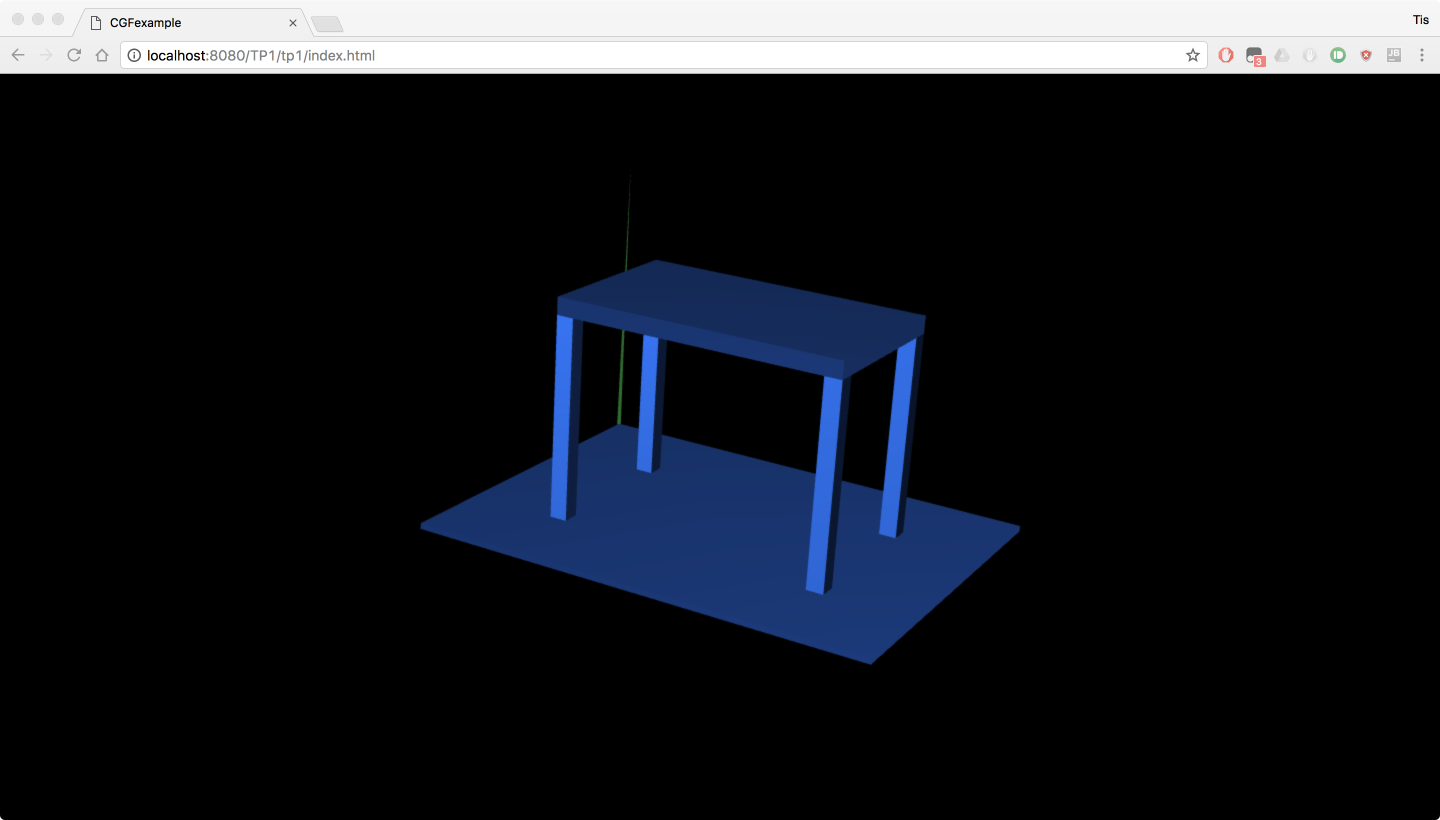
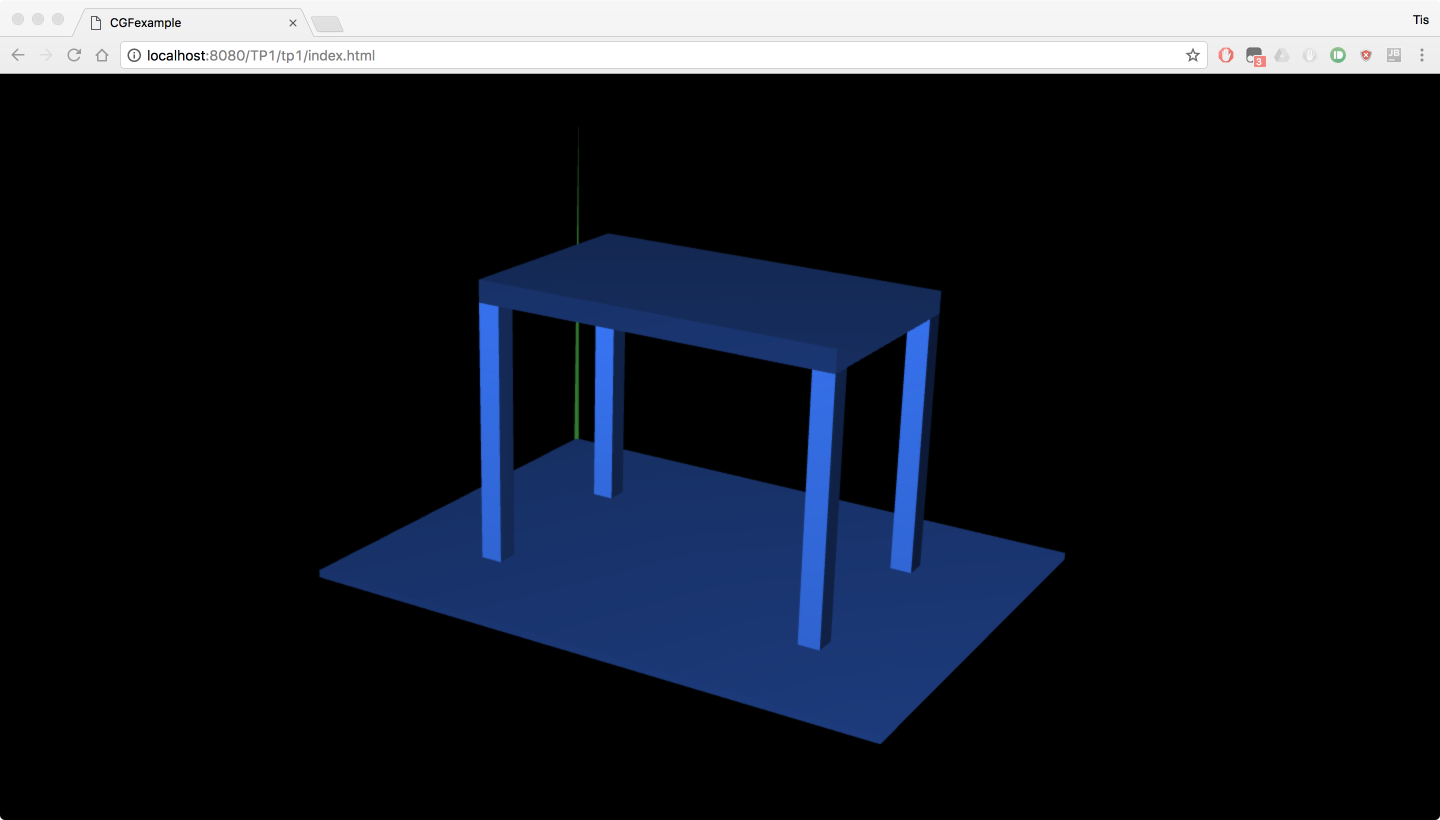
TP1 - Corrigida e Completa

Changed region(s): [[0.2188, 0.2744, 0.75, 0.9146]]

diff --git a/TP1/Resolução Problemas Propostos/CGFCode-tp1-5.4/MyTable.js b/TP1/Resolução Problemas Propostos/CGFCode-tp1-5.4/MyTable.js
@@ -17,35 +17,35 @@ MyTable.prototype.display = function () {
 
 	/*tampo*/
 	this.scene.pushMatrix();
-	this.scene.translate(0,3.5,0);
+	this.scene.translate(0,3.65,0);
 	this.scene.scale(5,0.3,3);
 	this.cube.display();
 	this.scene.popMatrix();
 
 	/* perna direita frente */
 	this.scene.pushMatrix();
-	this.scene.translate(2.35,1.6,1.35);
+	this.scene.translate(2.35,1.75,1.35);
 	this.scene.scale(0.3,3.5,0.3);
 	this.cube.display();
 	this.scene.popMatrix();
 
 	/* perna esquerda frente */
 	this.scene.pushMatrix();
-	this.scene.translate(-2.35,1.6,1.35);
+	this.scene.translate(-2.35,1.75,1.35);
 	this.scene.scale(0.3,3.5,0.3);
 	this.cube.display();
 	this.scene.popMatrix();
 
 	/* perna esquerda traseira */
 	this.scene.pushMatrix();
-	this.scene.translate(-2.35,1.6,-1.35);
+	this.scene.translate(-2.35,1.75,-1.35);
 	this.scene.scale(0.3,3.5,0.3);
 	this.cube.display();
 	this.scene.popMatrix();
 	
 	/* perna direita traseira */
 	this.scene.pushMatrix();
-	this.scene.translate(2.35,1.6,-1.35);
+	this.scene.translate(2.35,1.75,-1.35);
 	this.scene.scale(0.3,3.5,0.3);
 	this.cube.display();
 	this.scene.popMatrix();

diff --git a/TP1/tp1/myTable.js b/TP1/tp1/myTable.js
@@ -17,35 +17,35 @@ MyTable.prototype.display = function () {
 
 	/*tampo*/
 	this.scene.pushMatrix();
-	this.scene.translate(0,3.5,0);
+	this.scene.translate(0,3.65,0);
 	this.scene.scale(5,0.3,3);
 	this.cube.display();
 	this.scene.popMatrix();
 
 	/* perna direita frente */
 	this.scene.pushMatrix();
-	this.scene.translate(2.35,1.6,1.35);
+	this.scene.translate(2.35,1.75,1.35);
 	this.scene.scale(0.3,3.5,0.3);
 	this.cube.display();
 	this.scene.popMatrix();
 
 	/* perna esquerda frente */
 	this.scene.pushMatrix();
-	this.scene.translate(-2.35,1.6,1.35);
+	this.scene.translate(-2.35,1.75,1.35);
 	this.scene.scale(0.3,3.5,0.3);
 	this.cube.display();
 	this.scene.popMatrix();
 
 	/* perna esquerda traseira */
 	this.scene.pushMatrix();
-	this.scene.translate(-2.35,1.6,-1.35);
+	this.scene.translate(-2.35,1.75,-1.35);
 	this.scene.scale(0.3,3.5,0.3);
 	this.cube.display();
 	this.scene.popMatrix();
 	
 	/* perna direita traseira */
 	this.scene.pushMatrix();
-	this.scene.translate(2.35,1.6,-1.35);
+	this.scene.translate(2.35,1.75,-1.35);
 	this.scene.scale(0.3,3.5,0.3);
 	this.cube.display();
 	this.scene.popMatrix();

diff --git a/TP1/tp1/TPscene.js b/TP1/tp1/TPscene.js
@@ -171,7 +171,8 @@ TPscene.prototype.display = function () {
 
 	/* table */
 	this.pushMatrix();
-	this.translate(4,0.2,3);
+	//this.translate(4,0.2,3);
+	this.translate(4,0.1,3);
 	this.table.display();
 	this.popMatrix();
 

diff --git a/TP1/Resolução Problemas Propostos/CGFCode-tp1-5.4/TPscene.js b/TP1/Resolução Problemas Propostos/CGFCode-tp1-5.4/TPscene.js
@@ -171,7 +171,7 @@ TPscene.prototype.display = function () {
 
 	/* table */
 	this.pushMatrix();
-	this.translate(4,0.2,3);
+	this.translate(4,0.1,3);
 	this.table.display();
 	this.popMatrix();
 
